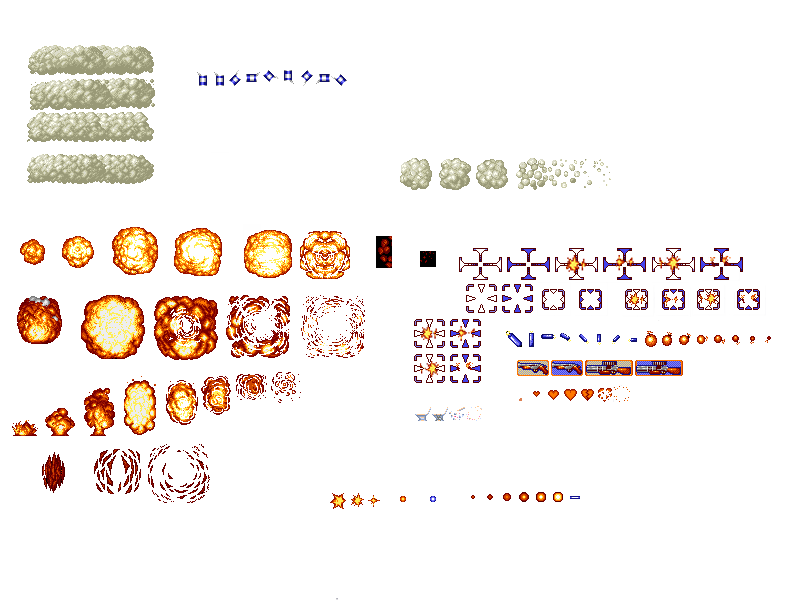
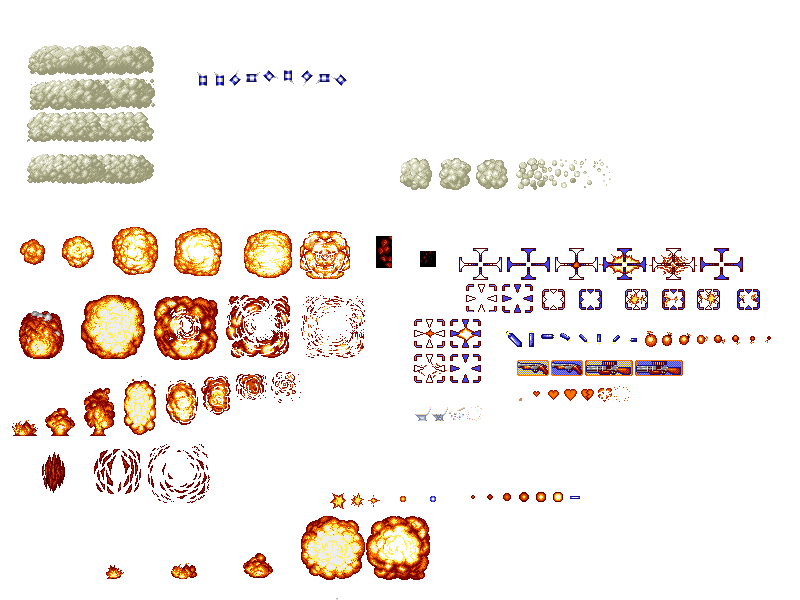
grenade and aim explotion updated

diff --git a/Goodbros/ModuleAim.cpp b/Goodbros/ModuleAim.cpp
@@ -30,7 +30,7 @@ ModuleAim::ModuleAim()
 	Aimshotgunshot.PushBack({ 700, 248, 43,32 });
 	Aimshotgunshot.PushBack({ 469, 248, 43, 32 });
 	Aimshotgunshot.PushBack({ 517, 248, 43, 32 });
-	Aimshotgunshot.speed = 0.5f;
+	Aimshotgunshot.speed = 0.3f;
 	Aimshotgunshot.loop = true;
 
 	aimmachinegunshot.PushBack({414, 319, 31,29});
@@ -39,17 +39,16 @@ ModuleAim::ModuleAim()
 	aimmachinegunshot.PushBack({ 450, 354, 31, 29 });
 	aimmachinegunshot.PushBack({ 466, 284, 31, 29 });
 	aimmachinegunshot.PushBack({ 502, 284, 31, 29 });
-	aimmachinegunshot.speed = 0.5f;
+	aimmachinegunshot.speed = 0.3f;
 	aimmachinegunshot.loop = true;
 
-	Aimshoot.PushBack({ 626, 288, 23, 21 });
-	Aimshoot.PushBack({ 660, 289, 23, 21 });
-	Aimshoot.PushBack({ 696, 288, 23, 21 });
-	Aimshoot.PushBack({ 737, 288, 23, 21 });
+	Aimshoot.PushBack({ 625, 289, 23, 21 });
+	Aimshoot.PushBack({ 662, 289, 23, 21 });
+	Aimshoot.PushBack({ 697, 289, 23, 21 });
+	Aimshoot.PushBack({ 737, 289, 23, 21 });
 	Aimshoot.PushBack({ 542, 289, 23, 21 });
-	Aimshoot.PushBack({ 579, 289, 23, 31 });
-	Aimshoot.PushBack({ 542, 289, 23, 21 });
-	Aimshoot.speed = 0.4f;
+
+	Aimshoot.speed = 0.3f;
 	Aimshoot.loop = true;
 
 	aimmode = NORMAL;

diff --git a/Goodbros/ModuleParticles.cpp b/Goodbros/ModuleParticles.cpp
@@ -57,14 +57,19 @@ ModuleParticles::ModuleParticles()
 	dynamite.anim.loop = false;
 	dynamite.anim.speed = 0.1f;
 
-	dynamite_exp.anim.PushBack({ 8, 370, 34, 65 });
-	dynamite_exp.anim.PushBack({ 42, 370, 34, 65 });
-	dynamite_exp.anim.PushBack({ 82, 370, 34, 64 });
-	dynamite_exp.anim.PushBack({ 122, 370, 34, 65 });
-	dynamite_exp.anim.PushBack({ 165, 370, 34, 64 });
-	dynamite_exp.anim.PushBack({ 200, 370, 34, 65 });
-	dynamite_exp.anim.PushBack({ 234, 370, 34, 65 });
-	dynamite_exp.anim.PushBack({ 268, 370, 34, 65 });
+
+
+	dynamite_exp.anim.PushBack({ 80, 516, 65, 64 });
+	dynamite_exp.anim.PushBack({ 154, 516, 65, 64 });
+	dynamite_exp.anim.PushBack({ 226, 516, 65, 64 });
+	dynamite_exp.anim.PushBack({ 9, 295, 65, 64 });
+	dynamite_exp.anim.PushBack({ 80, 295, 65, 64 });
+	dynamite_exp.anim.PushBack({ 301, 516, 65, 64 });
+	dynamite_exp.anim.PushBack({ 366, 516, 65, 64 });
+	dynamite_exp.anim.PushBack({ 154, 295, 65, 64 });
+	dynamite_exp.anim.PushBack({ 226, 295, 65, 64 });
+	dynamite_exp.anim.PushBack({ 301, 295, 65, 64 });
+
 	
 	dynamite_exp.anim.loop = false;
 	dynamite_exp.anim.speed = 0.2f;
